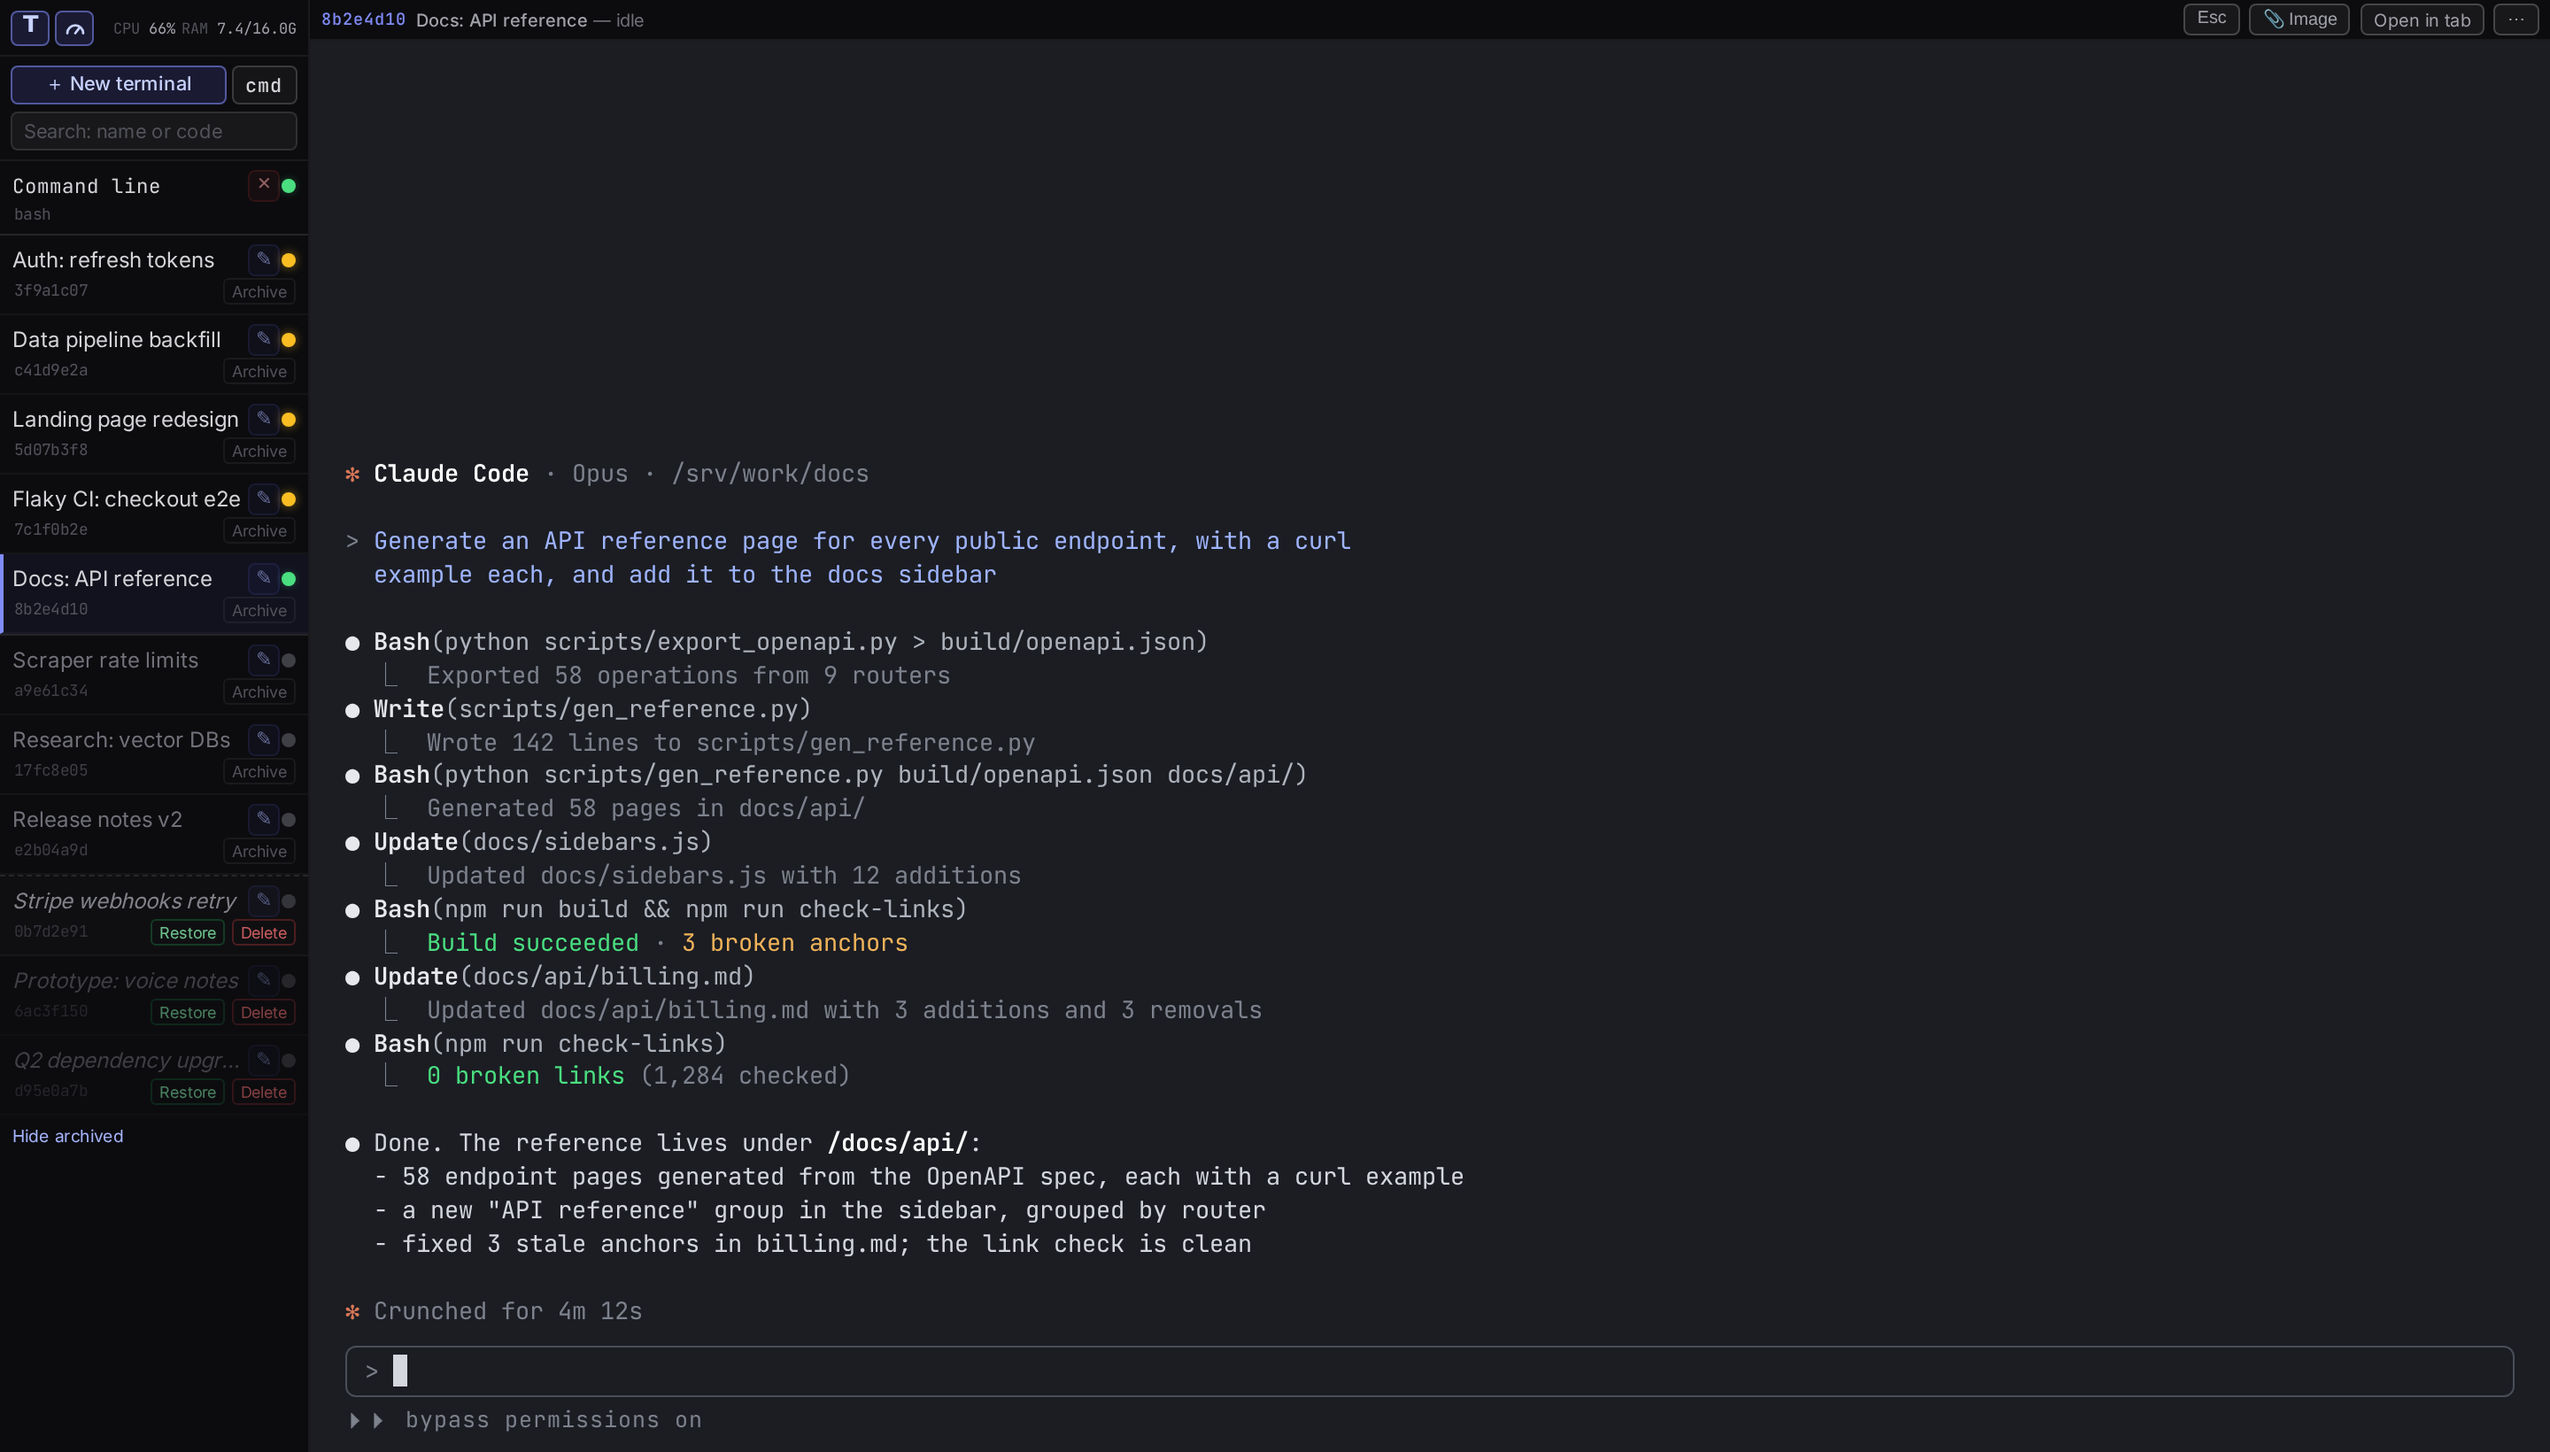
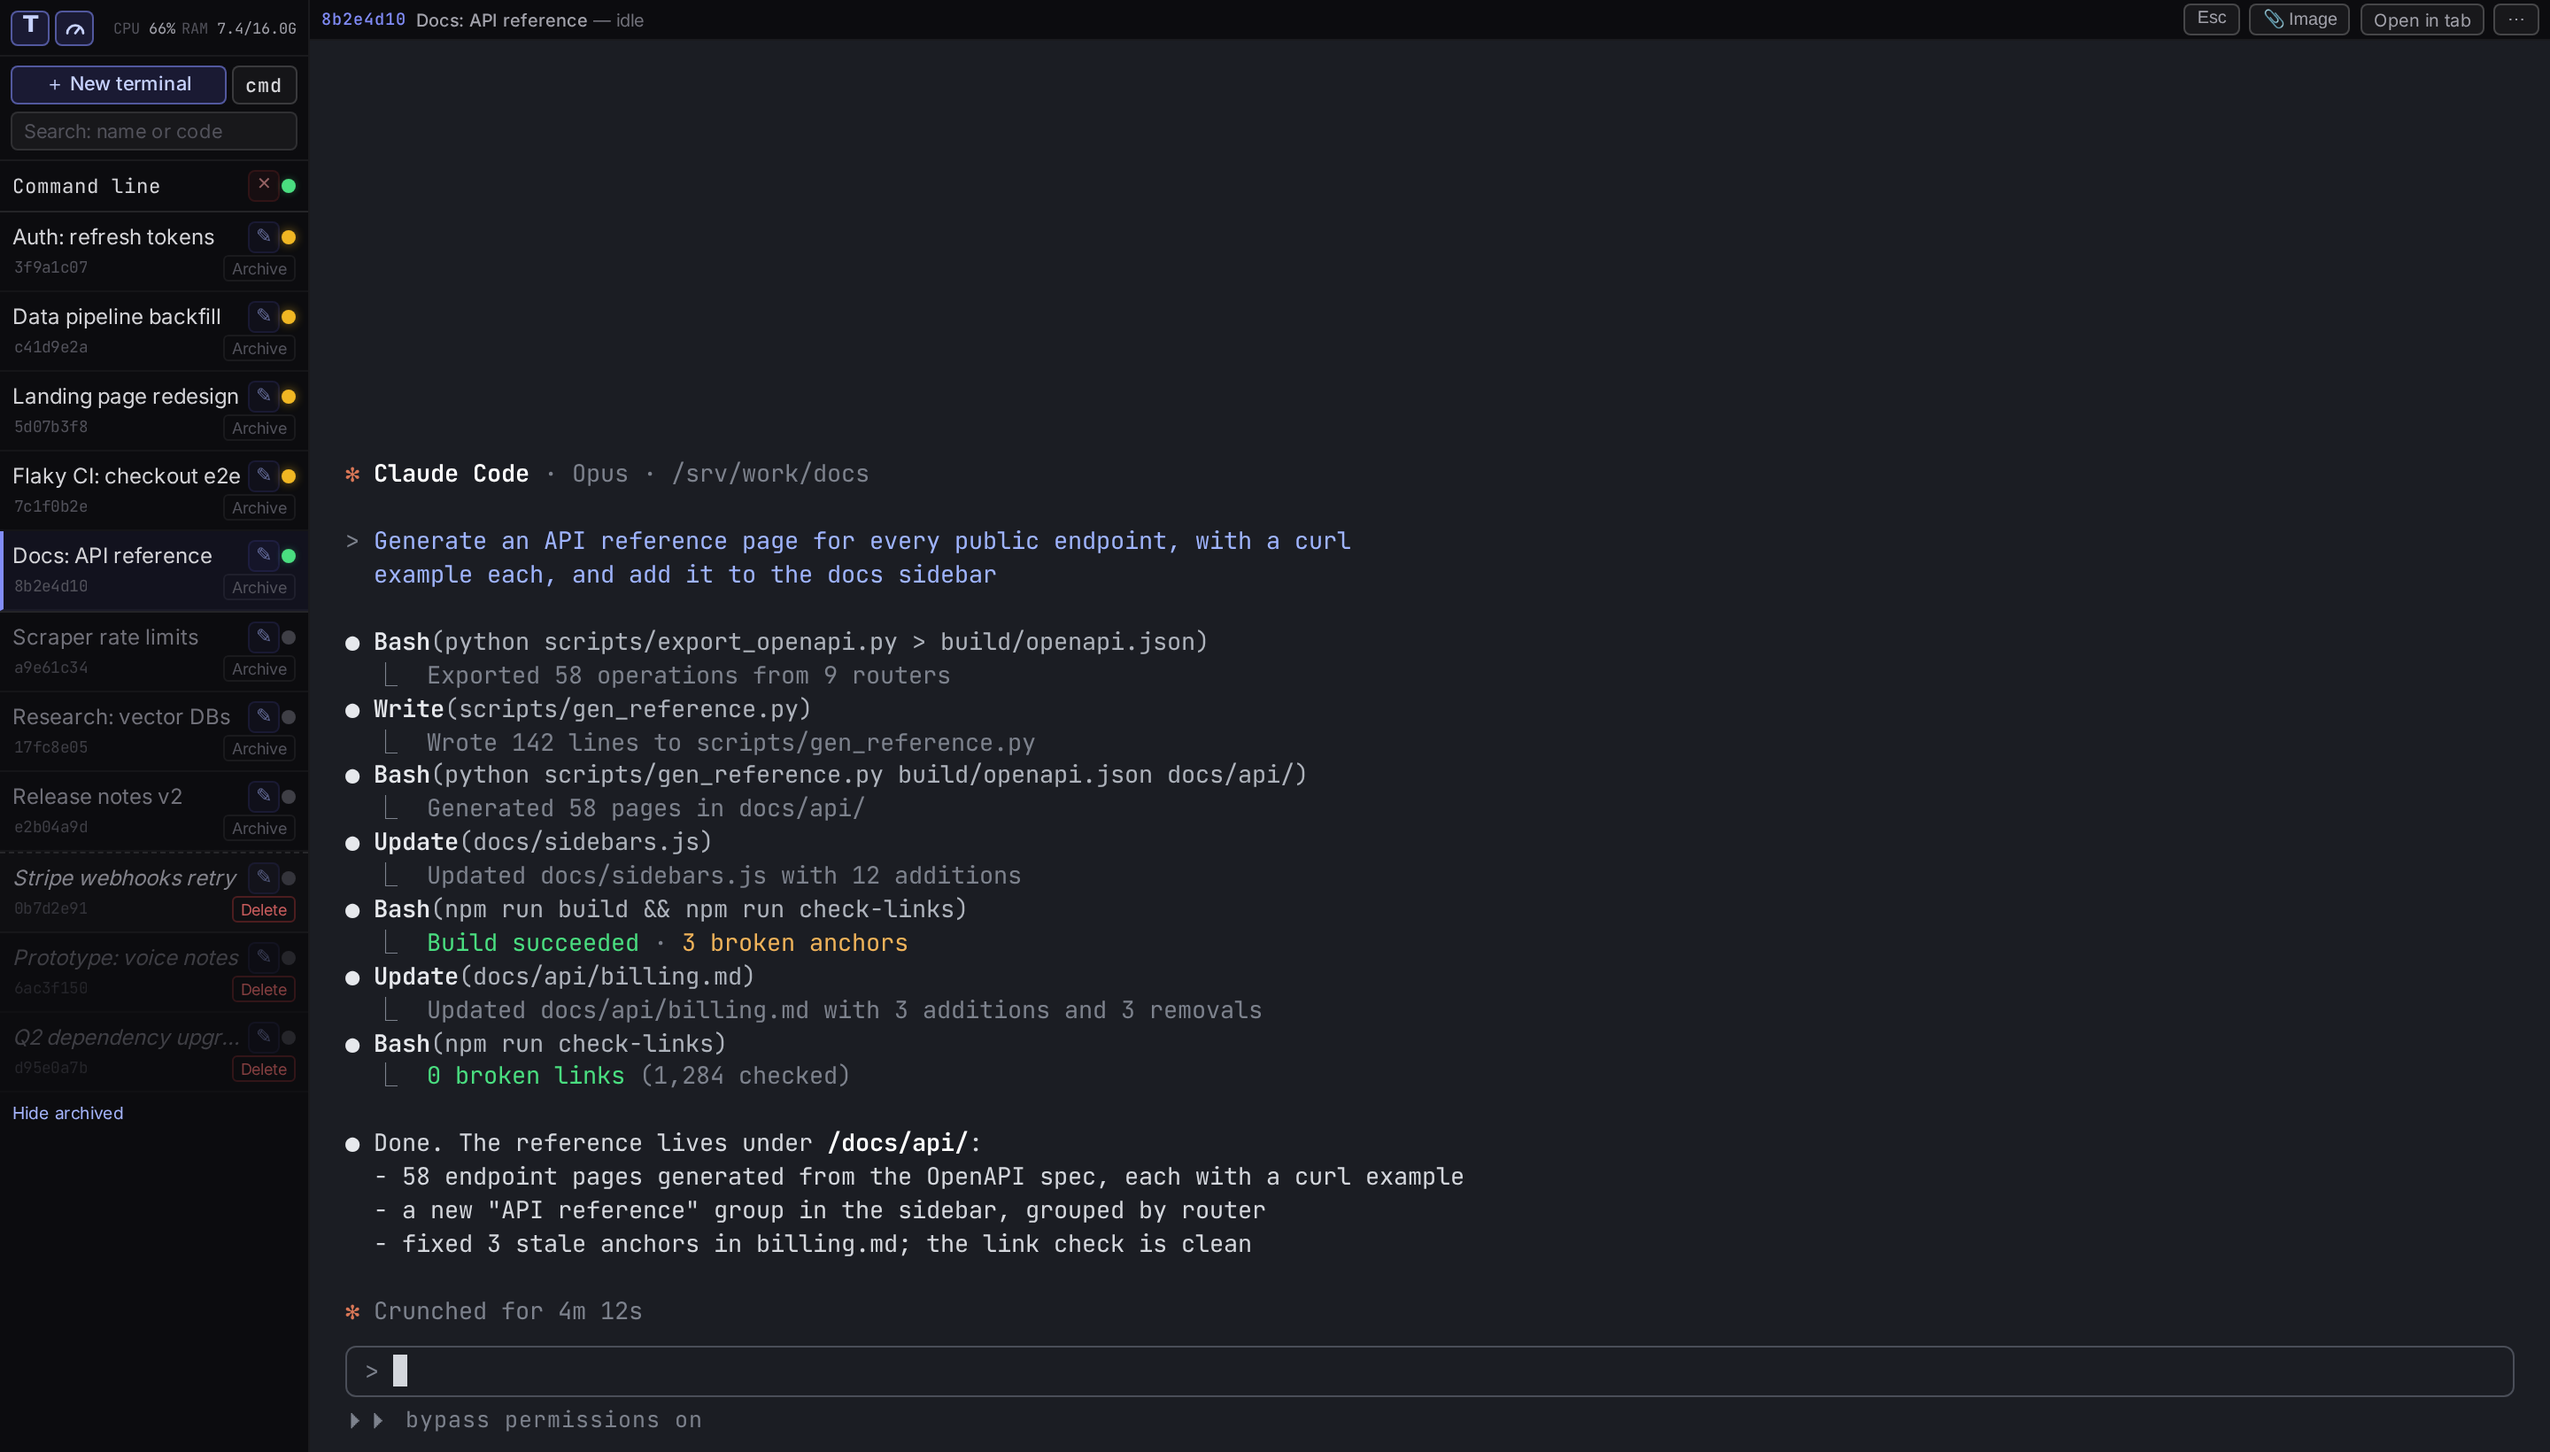
README: leaner gallery (two task-board shots, not four); archive shot without the Restore button

Changed region(s): [[0.0, 0.1555, 0.125, 0.8085]]

diff --git a/README.md b/README.md
@@ -85,17 +85,16 @@ working reference you adapt, not a turn-key installer.
 
 ## 📸 Screenshots
 
-| Login gate | Tasks tab in the dashboard | Archived terminals |
-|---|---|---|
-| ![Login](docs/screenshots/login.png) | ![The task board open as a tab inside the dashboard](docs/screenshots/tasks-tab.png) | ![Show archived: archived terminals with Delete; a click restores one](docs/screenshots/archive.png) |
+The first picture above shows an agent at work: named terminals on the left, a live
+Claude Code session on the right.
 
-| Task board | Task board (dark) | Telegram bridge |
+| Tasks tab in the dashboard | A terminal's tasks | Server status |
 |---|---|---|
-| ![Task board with search, filters and sorting](docs/screenshots/task-board.png) | ![Task board in dark mode](docs/screenshots/task-board-dark.png) | ![Telegram](docs/screenshots/telegram.png) |
+| ![The task board open as a tab inside the dashboard](docs/screenshots/tasks-tab.png) | ![Tasks filtered to one terminal after clicking its code](docs/screenshots/tasks-filtered.png) | ![The Server tab: CPU and memory of agents, sites & apps, jobs and system over 15 minutes](docs/screenshots/server.png) |
 
-| Server status | Light theme | A terminal's tasks |
+| Telegram bridge | Light theme | Archived terminals |
 |---|---|---|
-| ![The Server tab: CPU and memory of agents, sites & apps, jobs and system over 15 minutes](docs/screenshots/server.png) | ![The dashboard in the light theme; the terminal stays dark](docs/screenshots/light-theme.png) | ![Tasks filtered to one terminal after clicking its code in the top bar](docs/screenshots/tasks-filtered.png) |
+| ![Telegram](docs/screenshots/telegram.png) | ![The dashboard in the light theme; the terminal stays dark](docs/screenshots/light-theme.png) | ![Show archived: click an archived terminal to restore and open it; Delete removes it](docs/screenshots/archive.png) |
 
 The **Server** tab shows what is using the machine now and over the last 15 minutes: each
 agent with the processes it started (tests, builds), every site and service, and background
